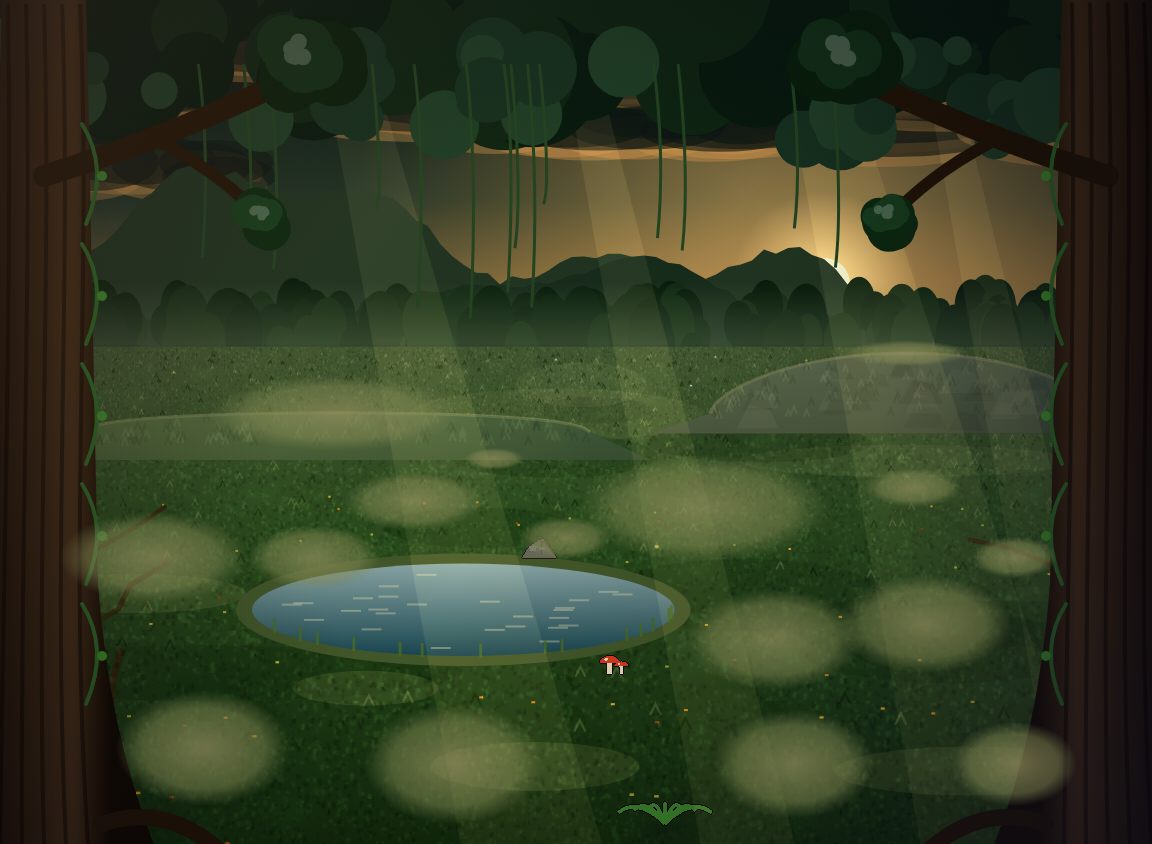
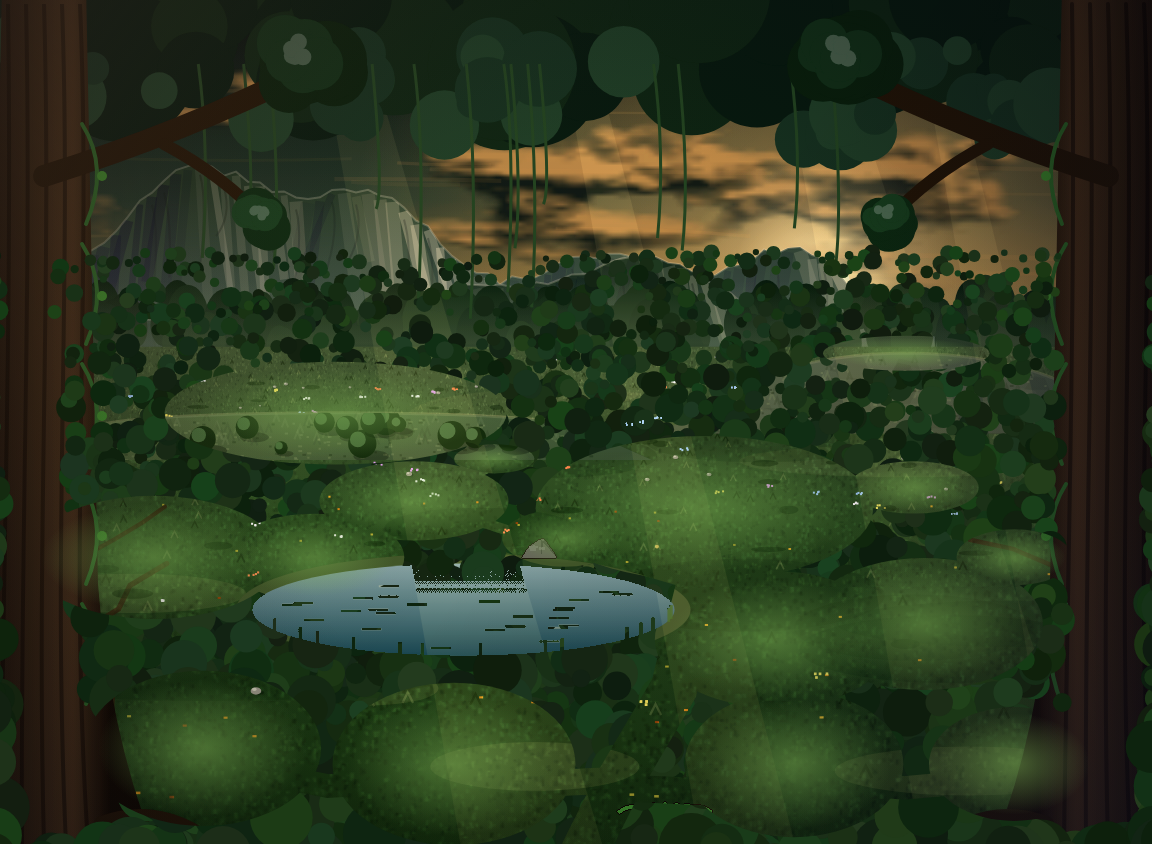
Knieja: szkic z masą lasu i polanami pod budowle, tło AI
Claude-Session: https://claude.ai/code/session_01ACpgVGYFhc89V1nkQx4Yem

diff --git a/tools/tla-ai/szkic.js b/tools/tla-ai/szkic.js
@@ -9,18 +9,29 @@ const { openGame, newGame } = require('../../tests/harness');
 (async () => {
   const fac = process.argv[2], F = +(process.env.F || 300), dir = __dirname, out = path.join(dir, 'tla', `szkic-${fac}.png`), lay = path.join(dir, 'uklady', fac + '.json');
   const { browser, page } = await openGame(); await newGame(page, {}, 777);
-  const r = await page.evaluate(([fac, F]) => {
+  const U0 = fs.existsSync(lay) ? JSON.parse(fs.readFileSync(lay, 'utf8')) : null, LAS = process.env.LAS || '';
+  const r = await page.evaluate(([fac, F, drogi, LAS]) => {
     const t = { ...G.state.towns[0], faction: fac, built: [] }; TownGenCache.clear && TownGenCache.clear();
     const D = 2, c = document.createElement('canvas'); c.width = 592 * D; c.height = 438 * D; const g = c.getContext('2d'); g.scale(D, D); TOWN_ART_SCALE = D;
     const L = townLayout(t); paintTownWorld(g, t, '#c83a2a', L); usePJ(L);
     const hor = PJ.hor, d = PJ.d, slots = [], plots = [];
     L.slots.forEach((S, i) => { const [sx, sy, s] = proj(S.X, S.Z, S.e || 0), w = S.w * s * S.k, ang = Math.atan2(sy - hor, F), rx = w * 0.45, ry = Math.max(3, rx * Math.sin(ang));
       slots.push({ s: [Math.round(sx), Math.round(sy)], z: +(F * S.Z / 1000).toFixed(3), ...(S.flip ? { flip: true } : {}) }); plots.push([sx, sy, rx, ry]);
-      const gr = g.createRadialGradient(0, 0, 0, 0, 0, rx); gr.addColorStop(0, 'rgba(150,146,96,.7)'); gr.addColorStop(0.7, 'rgba(132,138,84,.5)'); gr.addColorStop(1, 'rgba(120,130,80,0)');
-      g.save(); g.translate(sx, sy); g.scale(1, ry / rx); g.fillStyle = gr; g.beginPath(); g.arc(0, 0, rx, 0, 7); g.fill(); g.restore(); });
+    });
+    // Masa lasu (LAS=kolor): AI trzyma się układu jasnych i ciemnych plam, więc cały teren poniżej horyzontu pokrywa ciemne listowie,
+    // a place pod budowle i drogi zostają jasną łąką – AI maluje las wokół i polany dokładnie w tych miejscach.
+    if (LAS) { const f = document.createElement('canvas'); f.width = c.width; f.height = c.height; const q = f.getContext('2d'); q.scale(D, D); const R = mulberry32(7);
+      const base = g.getImageData(0, 0, c.width, c.height).data; for (let i = 0; i < 4200; i++) { const x = R() * 592, y = hor + 14 + R() * (438 - hor - 14), s2 = (y - hor) / 300, rr = (3 + R() * 6) * (0.4 + s2 * 1.4), k = (Math.round(y * D) * c.width + Math.round(x * D)) * 4; if (base[k] + base[k + 1] + base[k + 2] < 120 && base[k] > base[k + 1]) continue; /* pnie ramki zostają */ q.fillStyle = `hsl(${105 + R() * 25},${30 + R() * 20}%,${8 + R() * 10}%)`; q.beginPath(); q.arc(x, y, rr, 0, 7); q.fill(); }
+      q.globalCompositeOperation = 'destination-out';
+      for (const [sx, sy, rx, ry] of plots) { q.save(); q.translate(sx, sy); q.scale(1, ry / rx); q.beginPath(); q.arc(0, 0, rx * 1.35, 0, 7); q.fill(); q.restore(); }
+      q.lineCap = 'round'; for (const Rd of drogi || []) { q.beginPath(); Rd.pts.forEach(([x, y], k) => k ? q.lineTo(x, y) : q.moveTo(x, y)); q.lineWidth = Rd.w * 1.6 * Math.max(0.3, (Rd.pts[0][1] - hor) / (420 - hor)); q.stroke(); }
+      const wat = g.getImageData(0, 0, c.width, c.height).data, fd = q.getImageData(0, 0, f.width, f.height); // woda zostaje
+      for (let i = 0; i < wat.length; i += 4) if (wat[i + 2] > wat[i] + 18 && wat[i + 2] >= wat[i + 1] - 4) fd.data[i + 3] = 0; q.putImageData(fd, 0, 0);
+      g.setTransform(1, 0, 0, 1, 0, 0); g.drawImage(f, 0, 0); g.setTransform(D, 0, 0, D, 0, 0);
+      g.globalCompositeOperation = 'source-over'; for (const [sx, sy, rx, ry] of plots) { const gr = g.createRadialGradient(0, 0, 0, 0, 0, rx * 1.2); gr.addColorStop(0, 'rgba(120,170,80,.55)'); gr.addColorStop(1, 'rgba(120,170,80,0)'); g.save(); g.translate(sx, sy); g.scale(1, ry / rx); g.fillStyle = gr; g.beginPath(); g.arc(0, 0, rx * 1.2, 0, 7); g.fill(); g.restore(); } }
     const o = document.createElement('canvas'); o.width = 576 * D; o.height = 422 * D; o.getContext('2d').drawImage(c, -8 * D, -8 * D);
     return { png: o.toDataURL('image/png').split(',')[1], pj: { hor, d, f: F }, slots, plots };
-  }, [fac, F]);
+  }, [fac, F, U0 && U0.drogi, LAS]);
   await browser.close(); fs.mkdirSync(path.dirname(out), { recursive: true }); fs.writeFileSync(out, Buffer.from(r.png, 'base64'));
   if (!fs.existsSync(lay) || process.env.NADPISZ) fs.writeFileSync(lay, JSON.stringify({ _opis: 'Układ z planu sceny 2D (szkic.js): s = podstawa na ekranie, z = głębokość jak w 2D; place = płaskie polany [sx, sy, rx, ry] wymuszone po malowaniu (place.py).', tlo: fac + '.png', pj: r.pj, slots: r.slots, place: r.plots.map(p => p.map(v => +v.toFixed(1))) }, null, 1));
   console.log(out, lay);

diff --git a/tools/tla-ai/drogi.py b/tools/tla-ai/drogi.py
@@ -16,20 +16,23 @@ def spline(pts, n=24):  # Catmull-Rom przez punkty
     o.append(np.array(pts[-1])); return o
 mask = Image.new('L', (W, H), 0); md = ImageDraw.Draw(mask); draw = im.copy(); dd = ImageDraw.Draw(draw); rng = np.random.default_rng(3)
 a0 = np.asarray(im).astype(np.float32)
-for (px, py, rx, ry) in U.get('place', []):  # płaski plac: barwa terenu z okolicy, jaśniejsza i wyrównana
+lay = Image.new('RGBA', (W, H), (0, 0, 0, 0)); ld = ImageDraw.Draw(lay)
+TYLKO = os.environ.get('TYLKO', '')  # 'place' albo 'drogi': jeden rodzaj na przebieg (place potrzebują mocniejszego przemalowania)
+for (px, py, rx, ry) in ([] if TYLKO == 'drogi' else U.get('place', [])):  # płaski plac: miękki placek w barwie terenu z okolicy (jaśniejszej), bez obwódek; AI zamienia go w polanę
     X, Y, RX, RY = (px - 8) * S, (py - 8) * S, rx * S, ry * S
-    x0, x1, y0, y1 = int(max(0, X - RX * 1.6)), int(min(W, X + RX * 1.6)), int(max(0, Y - RY * 1.6)), int(min(H, Y + RY * 1.6))
-    col = np.median(a0[y0:y1, x0:x1].reshape(-1, 3), 0) * 1.08 + np.array([10, 8, 2])
-    md.ellipse([X - RX * 1.3, Y - RY * 1.3, X + RX * 1.3, Y + RY * 1.3], fill=255)
-    for k in range(6): f = 1 - k / 6; dd.ellipse([X - RX * f, Y - RY * f, X + RX * f, Y + RY * f], fill=tuple(int(v) for v in np.clip(col + rng.normal(0, 3, 3), 0, 255)))
-for R in U.get('drogi', []):
+    x0, x1, y0, y1 = int(max(0, X - RX * 2)), int(min(W, X + RX * 2)), int(max(0, Y - RY * 2)), int(min(H, Y + RY * 2))
+    col = 0.7 * np.array([150, 128, 90]) + 0.3 * np.percentile(a0[y0:y1, x0:x1].reshape(-1, 3), 60, 0)  # ubita, omszała ziemia (jak drogi): zieleń AI zarasta drzewami, jasne bierze za mgłę
+    md.ellipse([X - RX * 1.35, Y - RY * 1.35, X + RX * 1.35, Y + RY * 1.35], fill=255)
+    ld.ellipse([X - RX, Y - RY, X + RX, Y + RY], fill=tuple(int(v) for v in np.clip(col, 0, 255)) + (235,))
+lay = lay.filter(ImageFilter.GaussianBlur(2.5 * S)); la = np.asarray(lay).astype(np.float32); la[..., :3] *= (0.86 + 0.28 * rng.random(la.shape[:2]))[..., None]; lay = Image.fromarray(la.clip(0, 255).astype(np.uint8)); im_pl = im.copy(); im_pl.paste(lay, (0, 0), lay); draw = im_pl.copy(); dd = ImageDraw.Draw(draw)
+for R in ([] if TYLKO == 'place' else U.get('drogi', [])):
     pts = spline(R['pts'])
     for p in pts:
         x, y = p; w = R['w'] * max(0.15, (y - hor) / (420 - hor)) / 2; X, Y, r = (x - 8) * S, (y - 8) * S, w * S
         k = r * max(0.3, (y - hor) / np.hypot(U['pj'].get('f', 1000), y - hor))  # elipsa w perspektywie
         md.ellipse([X - r * 1.5, Y - k * 1.5, X + r * 1.5, Y + k * 1.5], fill=255)
         c = tuple(int(v) for v in np.array([166, 142, 104]) + rng.normal(0, 8, 3)); dd.ellipse([X - r, Y - k, X + r, Y + k], fill=c)
-draw = Image.blend(im, draw, 0.85)
+draw = Image.blend(im_pl, draw, 0.85)
 torch.set_num_threads(os.cpu_count())
 pipe = StableDiffusionImg2ImgPipeline.from_pretrained(os.environ.get('MODEL', 'Lykon/dreamshaper-8'), torch_dtype=torch.float32, variant='fp16', safety_checker=None, requires_safety_checker=False)
 pipe.scheduler = DPMSolverMultistepScheduler.from_config(pipe.scheduler.config, algorithm_type='dpmsolver++', use_karras_sigmas=True); pipe.set_progress_bar_config(disable=True)
@@ -37,7 +40,7 @@ prompt = 'detailed fantasy matte painting, green river valley with winding dirt 
 if len(sys.argv) > 6:
     O = json.load(open(os.path.join(os.path.dirname(os.path.abspath(__file__)), 'opisy.json'), encoding='utf-8'))
     prompt = 'detailed fantasy matte painting, ' + O[sys.argv[6]]['opis'] + ', flat open clearings of short grass and packed earth, worn dirt paths, painterly, crisp'
-neg = 'buildings, houses, people, text, watermark, blurry, lowres'
+neg = 'buildings, houses, people, text, watermark, blurry, lowres, fog, mist, haze, smoke'
 res = pipe(prompt, image=draw.resize((768, 560), Image.LANCZOS), strength=strength, negative_prompt=neg, num_inference_steps=30, guidance_scale=7, generator=torch.Generator().manual_seed(seed)).images[0].resize((W, H), Image.LANCZOS)
 soft = mask.filter(ImageFilter.GaussianBlur(3 * S))
 Image.composite(res, im, soft).save(out); draw.save(out.replace('.png', '-szkic.png')); print(out)
